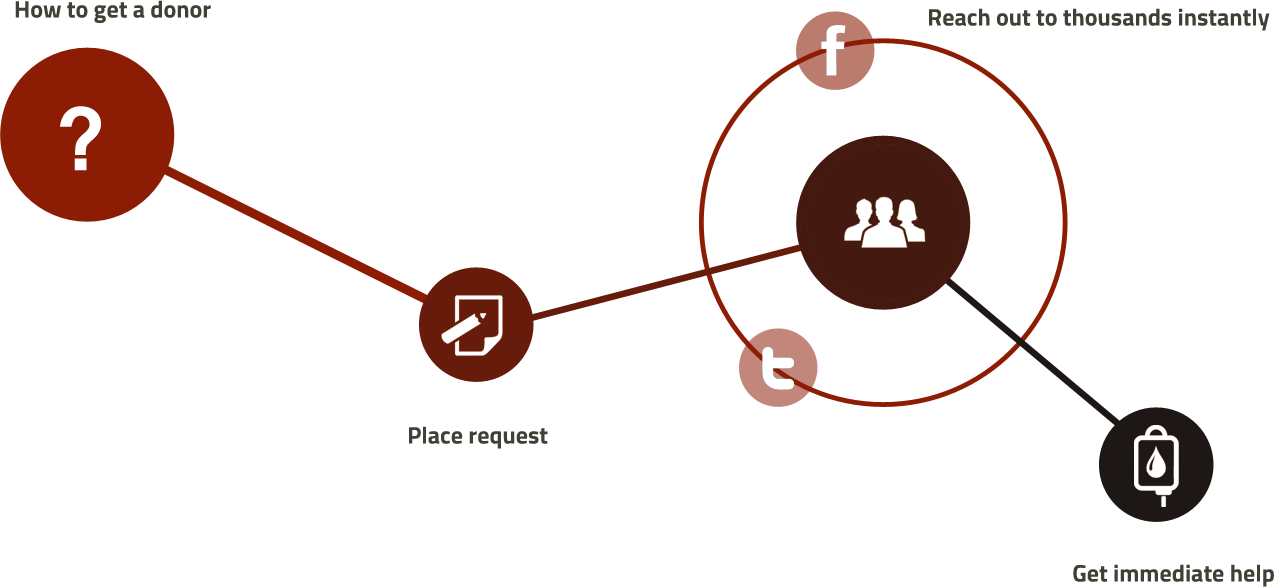
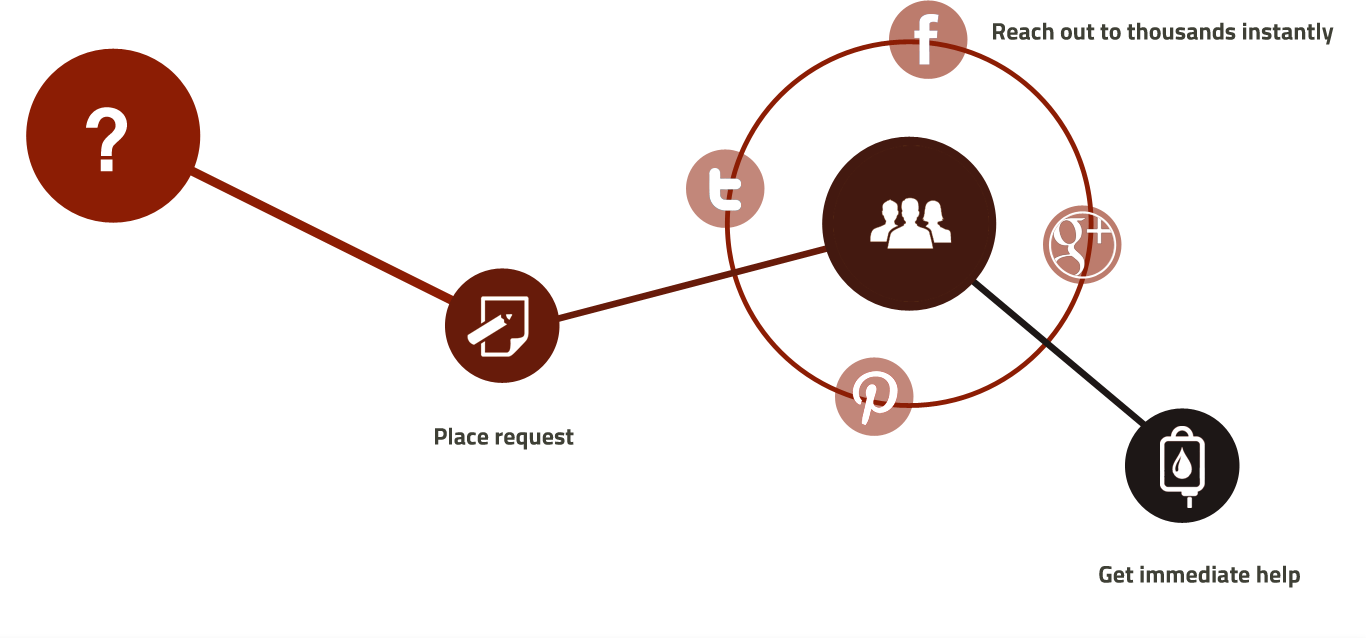
More touches. Add Pinterest. Done with get donor. Added CSS transitions for scroll.

diff --git a/index.html b/index.html
@@ -4,7 +4,7 @@
   <meta charset="utf-8" />
   <title>BloodLine - A Network for Life.</title>
   <meta name="description" content="Bloodline is a mobile web-based application that enables smart and fast communication between healthcare facilities and blood donors by leveraging smart phone technology, web-mapping and the reach of social networking.">
-  <script type="text/javascript" src="http://ajax.googleapis.com/ajax/libs/jquery/1.7.2/jquery.min.js"></script>
+  <script src="//ajax.googleapis.com/ajax/libs/jquery/1.9.0/jquery.min.js"></script>
   <script type="text/javascript" src="bootstrap/js/bootstrap.min.js"></script>
   <link rel="stylesheet" href="./bootstrap/css/bootstrap.css">
   <link href='http://fonts.googleapis.com/css?family=Junge' rel='stylesheet' type='text/css'>
@@ -41,11 +41,15 @@
       <a class="dellchallenge" href="http://www.dellchallenge.org/projects/bloodline"><img src="img/dell.png"></a>
       <a class="social-buttons" href="https://www.facebook.com/bloodlinelabs"><img src="img/f.png"></a>
       <a class="social-buttons" href="https://twitter.com/bloodlinelabs"><img src="img/t.png"></a>
+      <a class="social-buttons" href="#"><img src="img/p.png"></a>
       <div class="nav-collapse collapse">
         <ul class="nav">
-          <li><a href="">Who we are</a></li>
+          <!-- <li><a href="">Who we are</a></li> -->
           <!-- <li class="divider-vertical"></li> -->
-          <li><a href="">Talk to us</a></li>
+          <!-- <li><a href="">Talk to us</a></li> -->
+          <li><a href="#how-to-donate" class="scroll-links">Donate</a></li>
+          <li><a href="#get-donor" class="scroll-links">Find a donor</a></li>
+          <li><a href="#why-us" class="scroll-links">What's new?</a></li>
         </ul>
       </div>
     </div>
@@ -90,21 +94,24 @@
   </div>
 </section>
 
-<section class="how-to-donate-section">
+<section id="how-to-donate" class="how-to-donate-section">
   <div class="container">
     <img src="./img/donate.png">
   </div>
 </section>
 
-<section class="get-donor-section">
+<section id="get-donor" class="get-donor-section">
+  <div class="container">
+    <h1>Find a donor. <small>Nearby.</small></h1>
+  </div>
   <div class="container">
     <img src="./img/get-donor.png">
   </div>
 </section>
 
-<section class="why-us">
+<section id="why-us" class="why-us">
   <div class="row container title">
-    <h1 class="pull-left">Why Bloodline? <small> What makes us unique?</small></h1>
+    <h1 class="pull-left">Why Bloodline? <small>  What makes us unique?</small></h1>
   </div>
   <div class="row container">
     <div class="span4 sides">
@@ -128,20 +135,6 @@
   </div>
 </section>
 
-<!-- <div class="container">
-  <div class="hero-unit row">
-      <p>A critical issue facing healthcare today, especially in developing nations like India, is the inability to meet the country’s blood requirements through voluntary blood donation. One of the most significant factors contributing to this shortage, is the lack of efficient communication between healthcare facilities and blood donors. <strong>Bloodline</strong> enables health care facilities to connect to a network of blood donors in a fast, inexpensive and strategic manner.</p>
-  </div>
-  <div class="row">
-    <div class="span4"><div style="padding-top:25%"><h1>Be a hero.</h1><h3>Roll up your sleeves.</h3><p>Did you know that your blood gets replenished within 3 days of donation?</p></div></div>
-      <div class="span7"><img src="bootstrap/img/bag.gif"></div>
-  </div>
-  <div class="row">
-    <div class="span2"><img src="./iphone.png"></div>
-    <div class="span5"><img src="./galaxys3.png"></div>
-    <div class="span5"><div style="padding-top:50%"><h1>All it takes is an App</h1><p>The power to save lives, in your pocket.</p></div></div>
-  </div>
-</div> -->
 <div id="footer">
   <div class="container center">
     &copy; Bloodline Labs
@@ -170,6 +163,15 @@ function automateRotate(){
   t = setTimeout("automateRotate()",curDuration);
 }
 automateRotate();
+$(document).ready(function() {
+  $(".scroll-links").click(function() {
+    $("html, body").animate({scrollTop: $($(this).attr("href")).offset().top + "px"}, {duration: 450,specialEasing: {
+      width: 'linear',
+      height: 'easeOutBounce'
+    }});
+    return false;
+  });});
+
 </script>
 </body> 
 </html>

diff --git a/landing.css b/landing.css
@@ -175,6 +175,7 @@ only screen and (     -o-min-device-pixel-ratio: 2/1) {
 body{
   background: url(./img/paper_fibers.png) repeat center center;
   font-family: 'Titillium Web', sans-serif;
+  padding-top: 90px;
 }
 
 /* Tweak navbar brand link to be super sleek
@@ -231,7 +232,7 @@ body > .navbar .brand:hover {
 .navbar .nav > li > a {
   float: none;
   font-size: 20px;
-  padding: 30px 35px 10px;
+  padding: 30px 20px 10px;
   color: #f2f1f1;
   text-decoration: none;
   text-shadow: 0 1px 0 #ffffff;
@@ -294,10 +295,14 @@ body > .navbar .social-buttons {
 }
 
 .get-donor-section {
-  padding: 50px 0;
+  padding: 95px 0px 0px 0px;
   background-color: #e7dfd4;
 }
 
+.get-donor-section h1{
+  color: #3f4036;
+  margin-bottom: 10px;
+}
 .center{
   text-align: center;
 }
@@ -310,20 +315,22 @@ body > .navbar .social-buttons {
   background: url(./img/connect1.png) center center;
   min-height: 570px;
   background-size: 100%;
-  z-index: 2;
+  background-repeat: no-repeat;
 }
 
 #connect2{
   background: url(./img/connect2.png) center center;
   min-height: 570px;
   background-size: 100%;
-  z-index: 1;
+  background-repeat: no-repeat;
   -webkit-transition: all 2s ease-in-out;
    -moz-transition: all 2s ease-in-out;
         transition: all 2s ease-in-out;
 }
 
 .why-us {
+  padding-top: 95px;
+  padding-bottom: 20px;
   color: #ffffff;
   background-color: #14100f;
   text-align: center;
@@ -345,4 +352,9 @@ body > .navbar .social-buttons {
 
 .why-us .title{
   padding: 20px;
+}
+
+#footer{
+  background-color: #14100f;
+  color: #ffffff
 }
